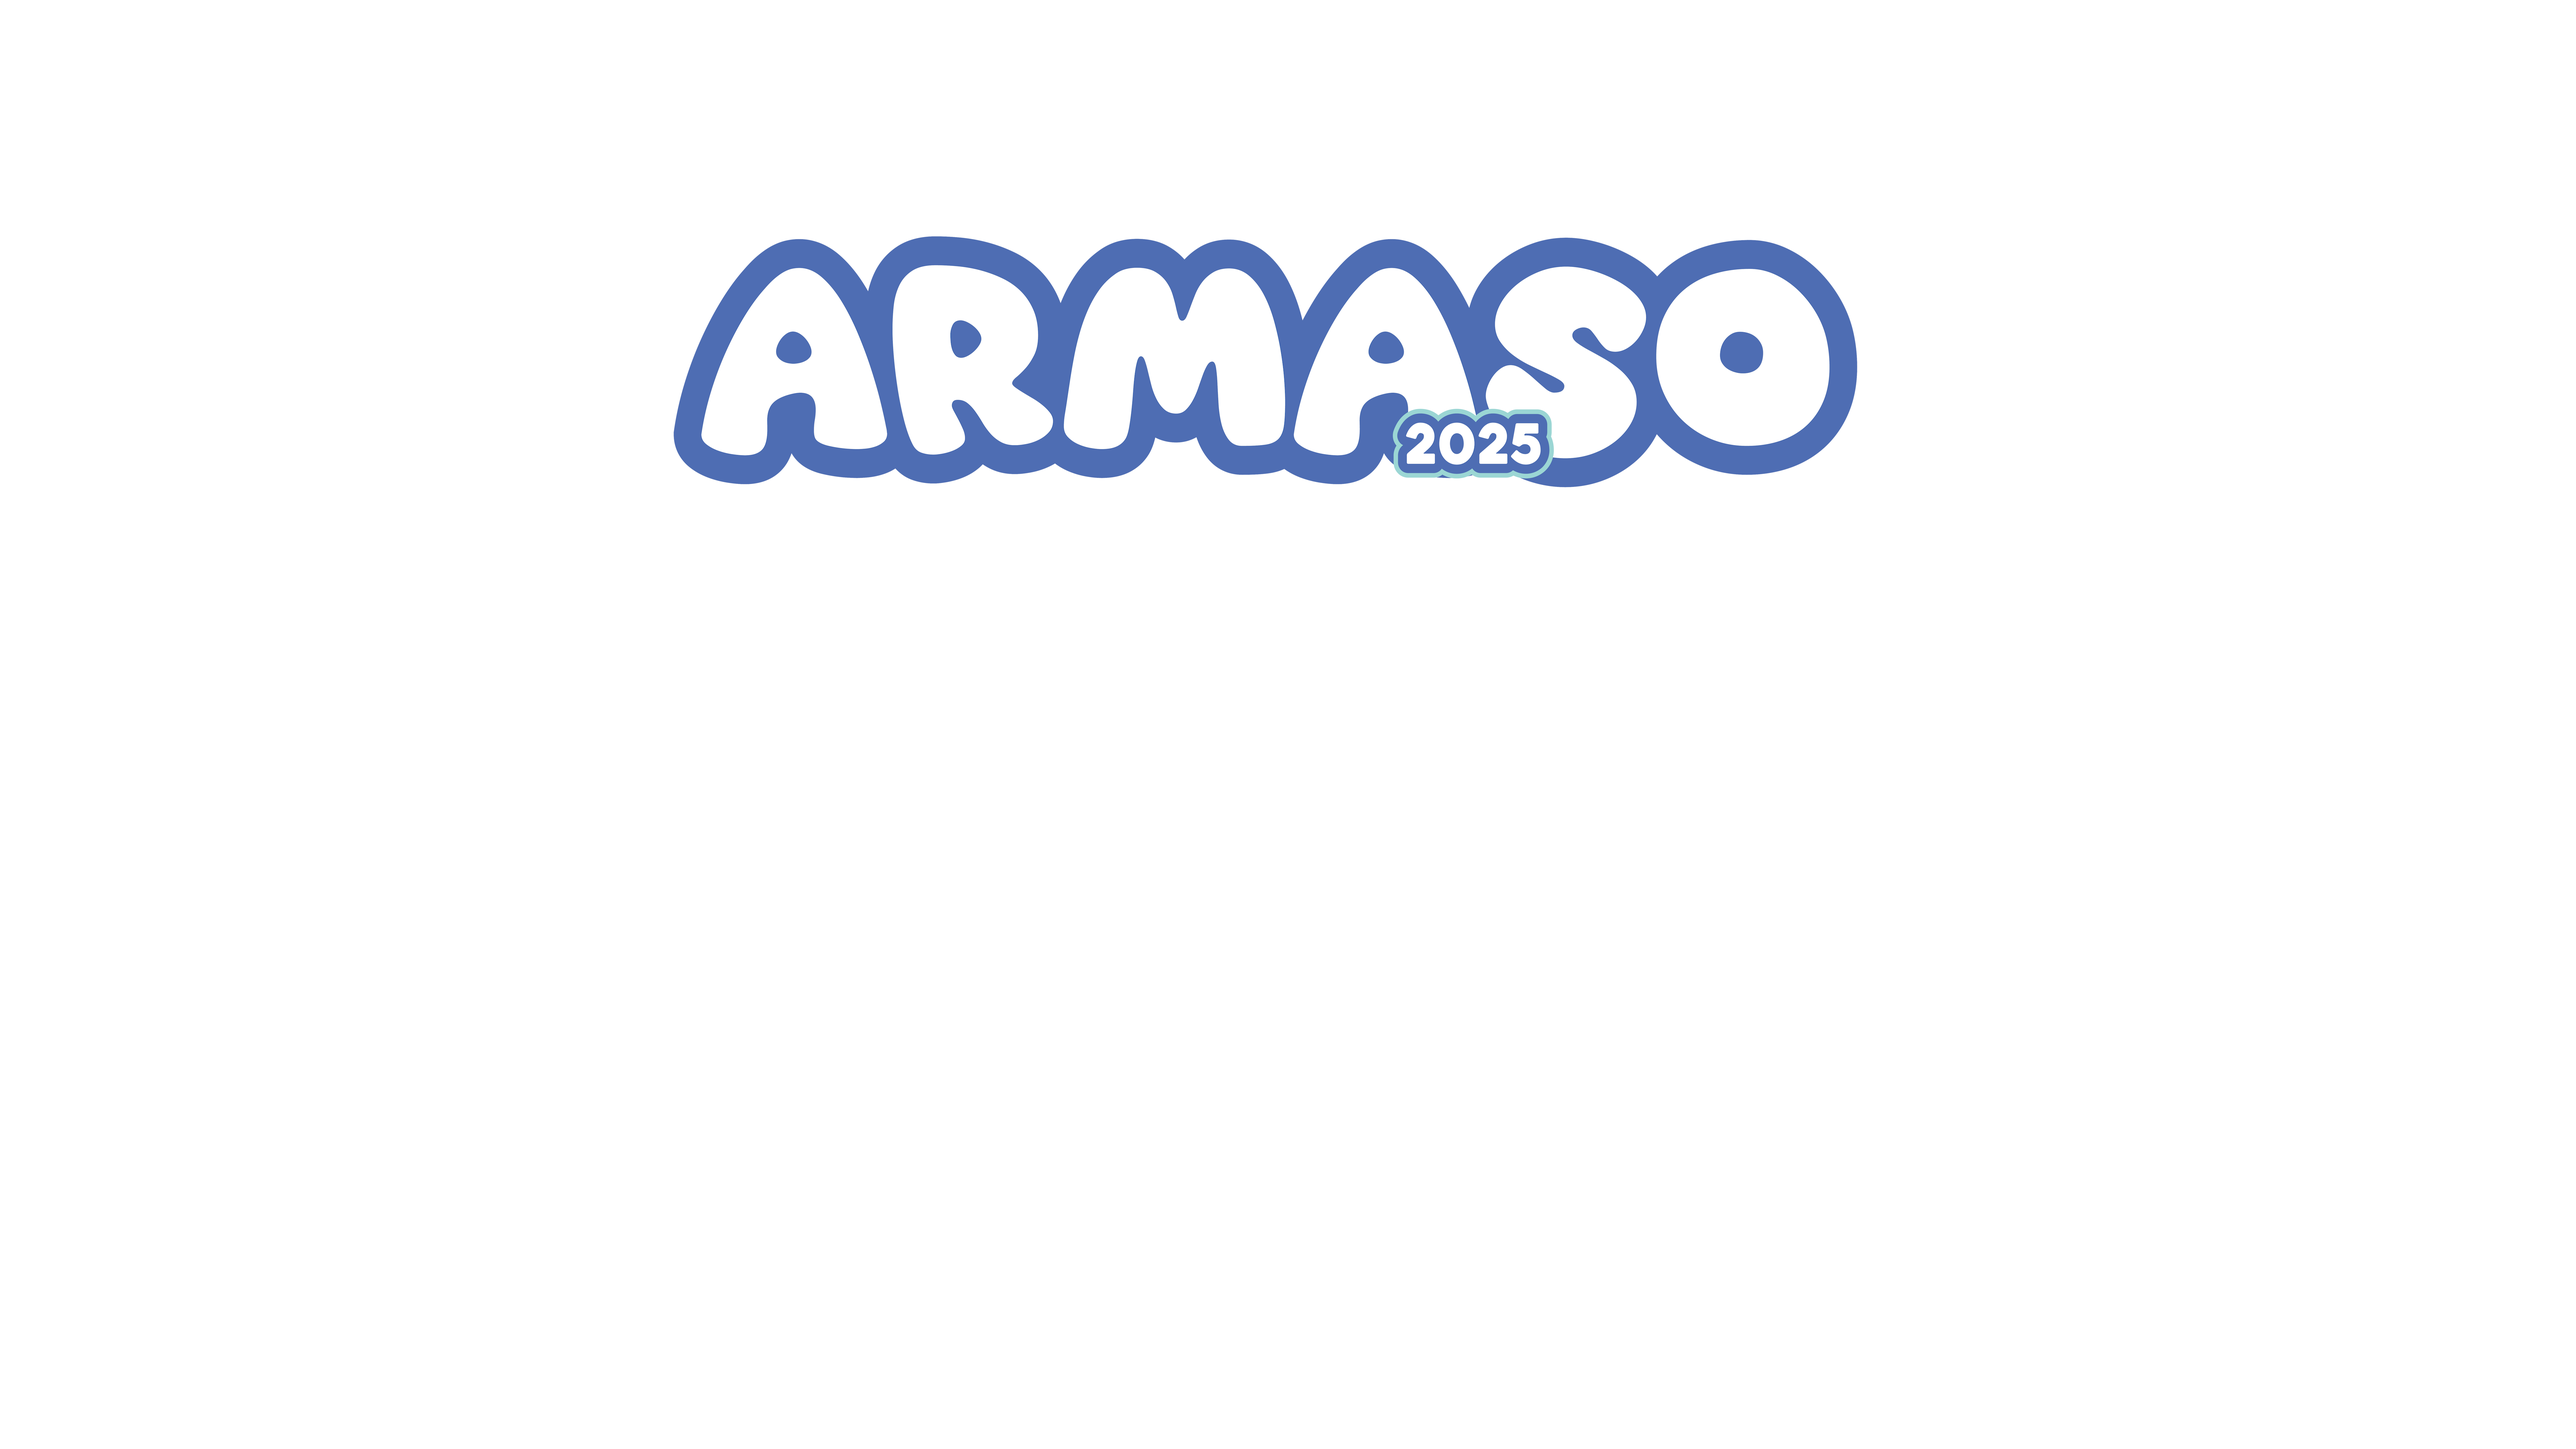
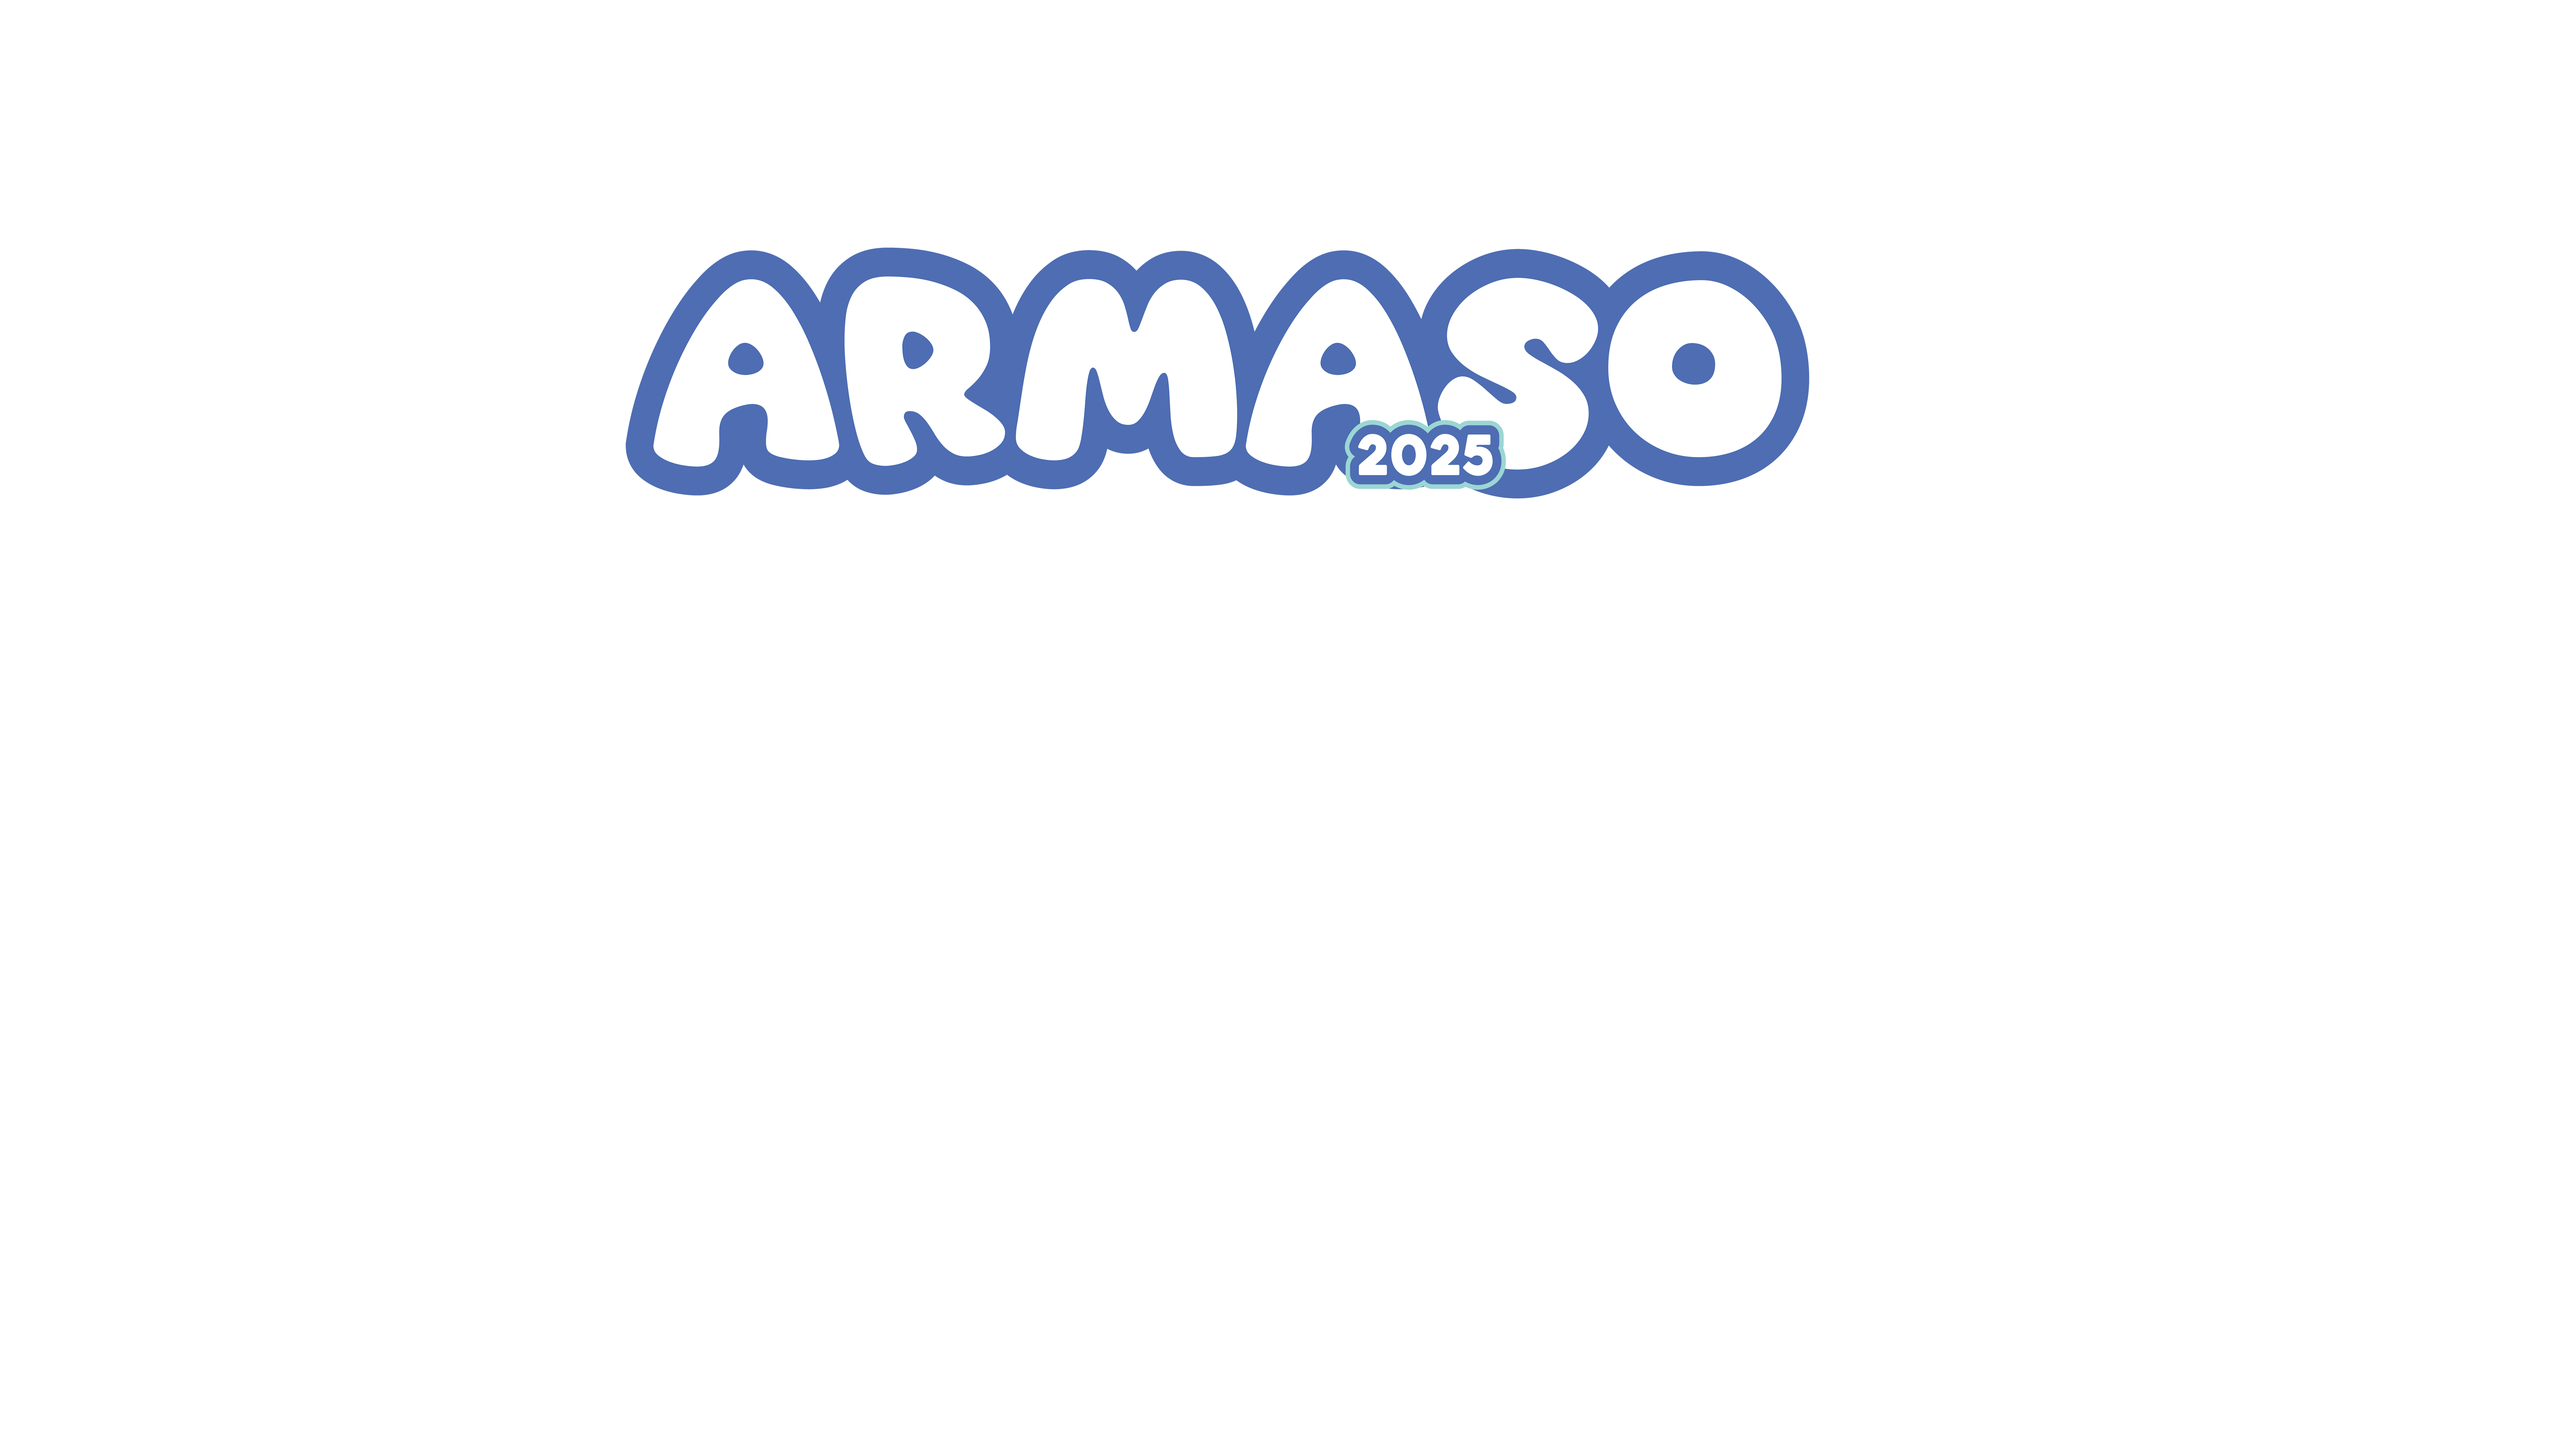
barrr

Changed region(s): [[0.2188, 0.1556, 0.7188, 0.3422]]

diff --git a/src/page/IPS.js b/src/page/IPS.js
@@ -1,7 +1,12 @@
 import "../css/ips.css"
-import React from "react";
+import React, { useState } from 'react';
+import Button from 'react-bootstrap/Button';
+import Modal from 'react-bootstrap/Modal';
+import 'bootstrap/dist/css/bootstrap.min.css';
+
 import Copyright from "../components/copyright";
 import Nav from "../components/navbar";
+import ContactUS from "../components/contactus";
 
 import ombak from "../img/pretelan/img5.png";
 import gelap1 from "../img/pretelan/img7.png";
@@ -23,9 +28,13 @@ import armasoipshp from "../img/pretelan/ipSHterate.png";
 import socialhp from "../img/pretelan/7.png";
 import tulisanneips from "../img/pretelan/tulisananehanehips.png";
 import daftarhp from "../img/pretelan/img2.png";
-import bupanhp from "../img/pretelan/img1.png";
+import bupanhp from "../img/pretelan/img1.png"
 
 const Ips =()=>{
+    const [showModal2, setShowModal2] = useState(false);
+
+    const handleCloseModal2 = () => setShowModal2(false);
+    const handleShowModal2 = () => setShowModal2(true);
     return(
         <div>
 
@@ -57,7 +66,7 @@ const Ips =()=>{
     </div>
     <div className="tombol">
         <img className="daftar" src={btdaftar} alt="" />
-        <img className="bupan" src={btbupan} alt="" />
+        <img className="bupan" src={btbupan} alt="" onClick={handleShowModal2}/>
     </div> 
     </div>
     </div>
@@ -79,14 +88,33 @@ const Ips =()=>{
         <img className="text-social-hp" src={tulisanneips} alt="" />
         <div className="tombol-hp">
             <img className="daftar-hp" src={daftarhp} alt="" />
-            <img className="bupan-hp" src={bupanhp} alt="" />
+            <img className="bupan-hp" src={bupanhp} alt="" onClick={handleShowModal2}/>
         </div>
     </div>
 
     </div>
             
     </div>
+        <ContactUS/>
         <Copyright/>
+
+        <Modal show={showModal2} onHide={handleCloseModal2} animation={false}>
+        <Modal.Header closeButton>
+          <Modal.Title>Buku Panduan</Modal.Title>
+        </Modal.Header>
+
+        <Modal.Body>Buku Panduan akan ditampilkan dalam bentuk PDF. Klik tombol bertuliskan "PDF" di bawah untuk membukanya! atau Download untuk mendownloadnya dalam bentuk file</Modal.Body>
+
+        <Modal.Footer>
+          <Button variant="secondary">
+            Download
+          </Button>
+
+          <Button variant="secondary">
+            PDF
+          </Button>
+        </Modal.Footer>
+      </Modal>
     </div>
     )
 }

diff --git a/src/page/IPA.js b/src/page/IPA.js
@@ -1,6 +1,9 @@
 import "../css/ipa.css"
-import React from "react";
-import "../css/navbar.css"
+import React, { useState } from 'react';
+import Button from 'react-bootstrap/Button';
+import Modal from 'react-bootstrap/Modal';
+import 'bootstrap/dist/css/bootstrap.min.css';
+
 import Copyright from "../components/copyright";
 import ContactUS from "../components/contactus"
 import Nav from "../components/navbar";
@@ -30,6 +33,10 @@ import bupanhp from "../img/pretelan/img1.png";
 
 
 const Ipa =()=>{
+    const [showModal2, setShowModal2] = useState(false);
+
+    const handleCloseModal2 = () => setShowModal2(false);
+    const handleShowModal2 = () => setShowModal2(true);
     return(
     <div>
 
@@ -60,8 +67,9 @@ const Ipa =()=>{
         <img className="text-keterangan" src={textcomment} alt="" />
     </div>
     <div className="tombol">
-        <img className="daftar" src={btdaftar} alt="" />
-        <img className="bupan" src={btbupan} alt="" />
+            <img className="daftar" src={btdaftar} alt="" />
+            <img className="bupan" src={btbupan} alt="" onClick={handleShowModal2}/>
+        
     </div> 
     </div>
     </div>
@@ -82,8 +90,9 @@ const Ipa =()=>{
         <img className="science-hp" src={sciencehp} alt="" />
         <img className="text-science" src={tulisanneipa} alt="" />
         <div className="tombol-hp">
+
             <img className="daftar-ipa-hp" src={daftarhp} alt="" />
-            <img className="bupan-ipa-hp" src={bupanhp} alt="" />
+            <img className="bupan-ipa-hp" src={bupanhp} alt="" onClick={handleShowModal2}/>
         </div>
     </div>
 
@@ -92,6 +101,24 @@ const Ipa =()=>{
     </div>
         <ContactUS/>
         <Copyright/>
+
+        <Modal show={showModal2} onHide={handleCloseModal2} animation={false}>
+        <Modal.Header closeButton>
+          <Modal.Title>Buku Panduan</Modal.Title>
+        </Modal.Header>
+
+        <Modal.Body>Buku Panduan akan ditampilkan dalam bentuk PDF. Klik tombol bertuliskan "PDF" di bawah untuk membukanya! atau Download untuk mendownloadnya dalam bentuk file</Modal.Body>
+
+        <Modal.Footer>
+          <Button variant="secondary">
+            Download
+          </Button>
+
+          <Button variant="secondary">
+            PDF
+          </Button>
+        </Modal.Footer>
+      </Modal>
     </div>
     )
 }

diff --git a/src/page/MTK.js b/src/page/MTK.js
@@ -1,7 +1,12 @@
 import "../css/mtk.css"
-import React from "react";
+import React, { useState } from 'react';
+import Button from 'react-bootstrap/Button';
+import Modal from 'react-bootstrap/Modal';
+import 'bootstrap/dist/css/bootstrap.min.css';
+
 import Nav from "../components/navbar";
 import Copyright from "../components/copyright";
+import ContactUS from "../components/contactus";
 
 import ombak from "../img/pretelan/img5.png";
 import gelap1 from "../img/pretelan/img7.png";
@@ -26,6 +31,10 @@ import daftarhp from "../img/pretelan/img2.png";
 import bupanhp from "../img/pretelan/img1.png";
 
 const Mtk =()=>{
+    const [showModal2, setShowModal2] = useState(false);
+
+    const handleCloseModal2 = () => setShowModal2(false);
+    const handleShowModal2 = () => setShowModal2(true);
     return(
         <div>
 
@@ -54,7 +63,7 @@ const Mtk =()=>{
     </div>
     <div className="tombol">
         <img className="daftar" src={btdaftar} alt="" />
-        <img className="bupan" src={btbupan} alt="" />
+        <img className="bupan" src={btbupan} alt="" onClick={handleShowModal2}/>
     </div> 
     </div>
     </div>
@@ -74,14 +83,33 @@ const Mtk =()=>{
         <img className="text-math-hp" src={tulisannemtk} alt="" />
         <div className="tombol-hp">
             <img className="daftar-hp" src={daftarhp} alt="" />
-            <img className="bupan-hp" src={bupanhp} alt="" />
+            <img className="bupan-hp" src={bupanhp} alt="" onClick={handleShowModal2}/>
         </div>
     </div>
 
     </div>
             
     </div>
-        <Copyright/>
+    <ContactUS/>
+    <Copyright/>
+
+    <Modal show={showModal2} onHide={handleCloseModal2} animation={false}>
+        <Modal.Header closeButton>
+          <Modal.Title>Buku Panduan</Modal.Title>
+        </Modal.Header>
+
+        <Modal.Body>Buku Panduan akan ditampilkan dalam bentuk PDF. Klik tombol bertuliskan "PDF" di bawah untuk membukanya! atau Download untuk mendownloadnya dalam bentuk file</Modal.Body>
+
+        <Modal.Footer>
+          <Button variant="secondary">
+            Download
+          </Button>
+
+          <Button variant="secondary">
+            PDF
+          </Button>
+        </Modal.Footer>
+      </Modal>
     </div>
     )
 }

diff --git a/src/setting/otherlink.js b/src/setting/otherlink.js
@@ -3,8 +3,8 @@ export const bukupanduan = "https://armaso.arrahmat-bjn.sch.id/mainPage/PDF/SYAR
 export const syaratdanketentuan = "https://armaso.arrahmat-bjn.sch.id/mainPage/PDF/SYARAT.pdf"
 
 //link wa
-export const wa1 = ""
-export const wa2 = ""
+export const wa1 = "https://api.whatsapp.com/send/?phone=6281234604006&text=Chat+open+by+https%3A%2F%2Fwhatsappdialer.otutom.com%2Fen%2F&type=phone_number&app_absent=0"
+export const wa2 = "https://api.whatsapp.com/send/?phone=6283847049148&text=Chat+open+by+https%3A%2F%2Fwhatsappdialer.otutom.com%2Fen%2F&type=phone_number&app_absent=0"
 
 //other
 export const webarahmat = "https://arrahmat-bjn.sch.id/"

diff --git a/src/components/contactus.js b/src/components/contactus.js
@@ -25,8 +25,8 @@ const ContactUS = () => {
           <div className="icon">
             <img src={waico} alt="WhatsApp Logo" />
           </div>
-          <p><a href={wa1}  target="_blank" rel="noopener noreferrer">Adhamara Dwipasha Flavarizki</a></p>
-          <p><a href={wa2}  target="_blank" rel="noopener noreferrer">Rafif Ibrahim Mahfid</a></p>
+          <p><a href={wa1}  target="_blank" rel="noopener noreferrer">+6281234604006 (Adhamara)</a></p>
+          <p><a href={wa2}  target="_blank" rel="noopener noreferrer">+6283847049148(Rafif)</a></p>
         </div>
 
         <div className="other">

diff --git a/src/animation/parallaxHome.js b/src/animation/parallaxHome.js
@@ -98,7 +98,7 @@ const Parallaxhome = () => {
                 <img src={armaso} alt="armaso" className="armaso-img" />
             </div>
 
-            <div className="border">
+            <div className="border"> 
                 <img src={bobawah} alt="" className="border-img" />
             </div>
 

diff --git a/src/css/parallaxhome.css b/src/css/parallaxhome.css
@@ -83,8 +83,9 @@ body {
 }
 
 .armaso-img{
+    align-items: center;
     height: 100vh;
-    width: 103%;
+    width: 100%;
     animation: moveCastle 5s ease-in-out infinite;
 }
 

diff --git a/src/css/faq.css b/src/css/faq.css
@@ -26,6 +26,7 @@
 
 .pertanyaan, .jawaban {
   font-size: 20;
+  color: black;
 }
 
 .arrow {
